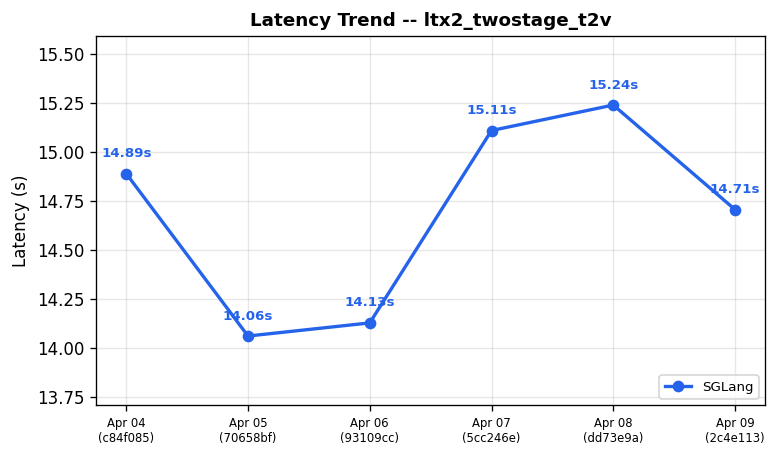
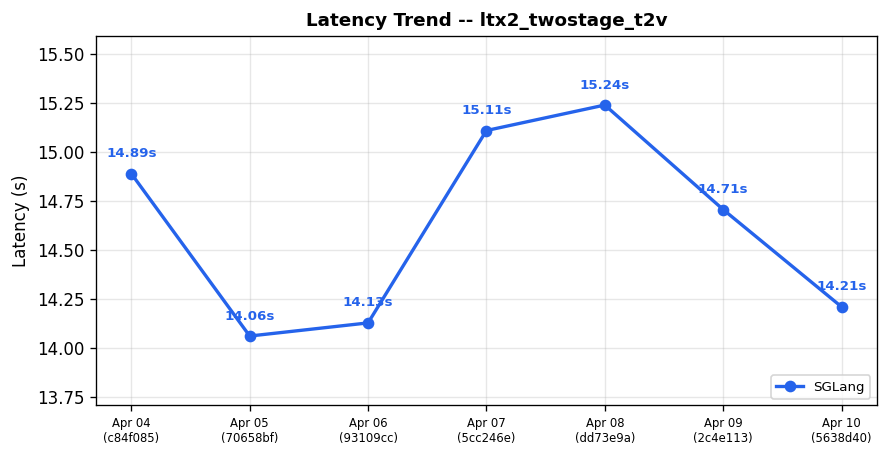
Diffusion comparison results for run 24220618561 (#563)

diff --git a/diffusion-comparisons/dashboard.md b/diffusion-comparisons/dashboard.md
@@ -1,20 +1,20 @@
 # Diffusion Cross-Framework Performance Dashboard
 
-*Generated: Apr 09 | Commit: `2c4e113`*
+*Generated: Apr 10 | Commit: `5638d40`*
 
 ## Cross-Framework Performance Comparison
 
 | Model | Risk | sglang (s) |
 |-------|------|---------|
-| FLUX.1-dev | ✅ | **6.71** |
-| FLUX.2-dev | ✅ | **22.93** |
-| Qwen-Image-2512 | ✅ | **13.20** |
-| Qwen-Image-Edit-2511 | ✅ | **23.80** |
-| Z-Image-Turbo | ✅ | **0.89** |
-| Wan2.2-T2V-A14B-Diffusers | ✅ | **210.35** |
+| FLUX.1-dev | ✅ | **6.68** |
+| FLUX.2-dev | ✅ | **22.78** |
+| Qwen-Image-2512 | ✅ | **13.16** |
+| Qwen-Image-Edit-2511 | ✅ | **23.76** |
+| Z-Image-Turbo | ✅ | **0.88** |
+| Wan2.2-T2V-A14B-Diffusers | ✅ | **209.41** |
 | Wan2.2-TI2V-5B-Diffusers | ✅ | **62.16** |
-| LTX-2 | ✅ | **14.71** |
-| Wan2.2-I2V-A14B-Diffusers | ✅ | **206.54** |
+| LTX-2 | ✅ | **14.21** |
+| Wan2.2-I2V-A14B-Diffusers | ✅ | **204.58** |
 
 ### Latency Trend: flux1_dev_t2i_1024
 
@@ -65,6 +65,7 @@
 
 | Date | Commit | flux1_dev_t2i_1024 (s) | flux2_dev_t2i_1024 (s) | qwen_image_2512_t2i_1024 (s) | qwen_image_edit_2511 (s) | zimage_turbo_t2i_1024 (s) | wan22_t2v_a14b_720p (s) | wan22_ti2v_5b_720p (s) | ltx2_twostage_t2v (s) | wan22_i2v_a14b_720p (s) | Trend |
 |------|--------|---------|---------|---------|---------|---------|---------|---------|---------|---------|-------|
+| Apr 10 | `5638d40` | 6.68 | 22.78 | 13.16 | 23.76 | 0.88 | 209.41 | 62.16 | 14.21 | 204.58 | :left_right_arrow:  :left_right_arrow:  :left_right_arrow:  :left_right_arrow:  :left_right_arrow:  :left_right_arrow:  :left_right_arrow:  :arrow_down:  :left_right_arrow: |
 | Apr 09 | `2c4e113` | 6.71 | 22.93 | 13.20 | 23.80 | 0.89 | 210.35 | 62.16 | 14.71 | 206.54 | :left_right_arrow:  :left_right_arrow:  :left_right_arrow:  :left_right_arrow:  :left_right_arrow:  :left_right_arrow:  :left_right_arrow:  :arrow_down:  :left_right_arrow: |
 | Apr 08 | `dd73e9a` | 6.83 | 22.96 | 13.19 | 23.84 | 0.89 | 210.25 | 62.20 | 15.24 | 206.65 | :arrow_up:  :left_right_arrow:  :left_right_arrow:  :left_right_arrow:  :left_right_arrow:  :left_right_arrow:  :left_right_arrow:  :left_right_arrow:  :left_right_arrow: |
 | Apr 07 | `5cc246e` | 6.69 | 22.92 | 13.19 | 23.83 | 0.89 | 210.64 | 62.20 | 15.11 | 207.62 | :left_right_arrow:  :left_right_arrow:  :arrow_down:  :left_right_arrow:  :left_right_arrow:  :left_right_arrow:  :left_right_arrow:  :arrow_up:  :left_right_arrow: |
@@ -78,8 +79,7 @@
 | Apr 02 | `d7256eb` | 6.70 | 22.87 | 13.18 | 29.59 | 0.93 | 16.11 | 62.20 | N/A | 22.07 | :left_right_arrow:  :left_right_arrow:  :left_right_arrow:  :left_right_arrow:  :left_right_arrow:  :left_right_arrow:  :left_right_arrow:   :left_right_arrow: |
 | Apr 01 | `a315d74` | 6.70 | 22.89 | 13.30 | 29.70 | 0.92 | 16.20 | 62.19 | N/A | 22.08 | :left_right_arrow:  :left_right_arrow:  :left_right_arrow:  :left_right_arrow:  :left_right_arrow:  :left_right_arrow:  :left_right_arrow:   :arrow_up: |
 | Apr 01 | `a8759dd` | 6.70 | 22.88 | 13.19 | 30.10 | 0.93 | 16.16 | 62.20 | N/A | 21.07 | :left_right_arrow:  :left_right_arrow:  :left_right_arrow:  :left_right_arrow:  :left_right_arrow:  :left_right_arrow:  :left_right_arrow:   :arrow_up: |
-| Mar 31 | `3650bfb` | 6.69 | 22.84 | 13.19 | 29.64 | 0.93 | 16.10 | 63.18 | N/A | 9.03 | :left_right_arrow:  :left_right_arrow:  :left_right_arrow:  :left_right_arrow:  :left_right_arrow:  :left_right_arrow:  :left_right_arrow:   :arrow_down: |
-| Mar 30 | `afb32d7` | 6.68 | 22.79 | 13.16 | 29.44 | 0.92 | 16.08 | 62.21 | N/A | 10.04 | -- |
+| Mar 31 | `3650bfb` | 6.69 | 22.84 | 13.19 | 29.64 | 0.93 | 16.10 | 63.18 | N/A | 9.03 | -- |
 
 ---
 *Generated by `generate_diffusion_dashboard.py` in SGLang nightly CI.*
